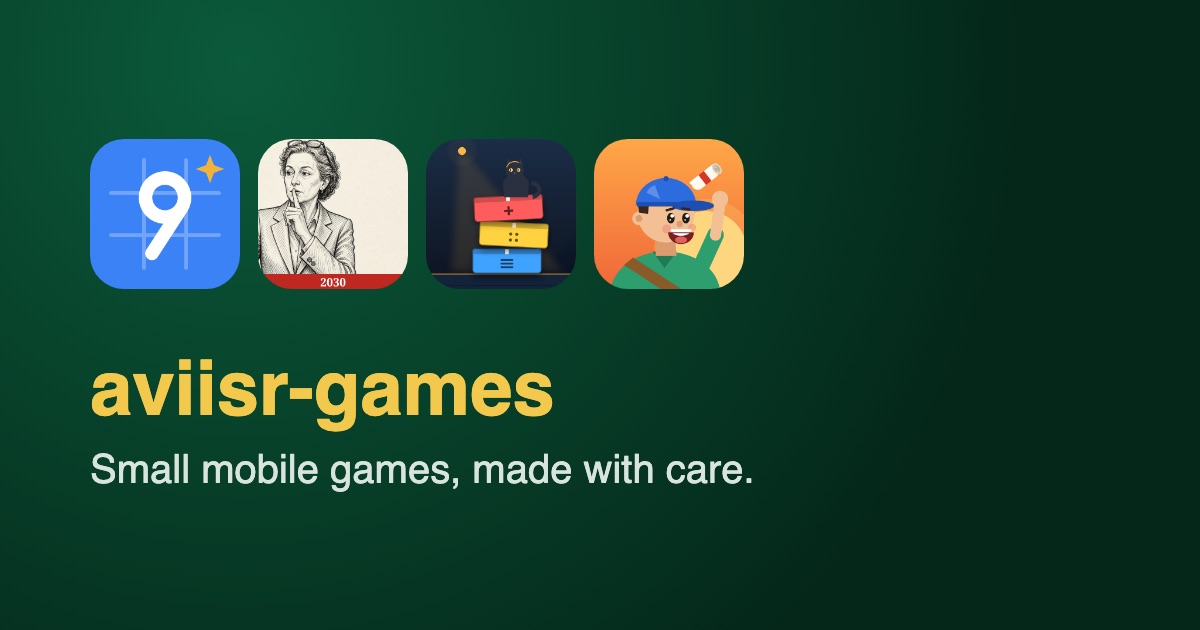
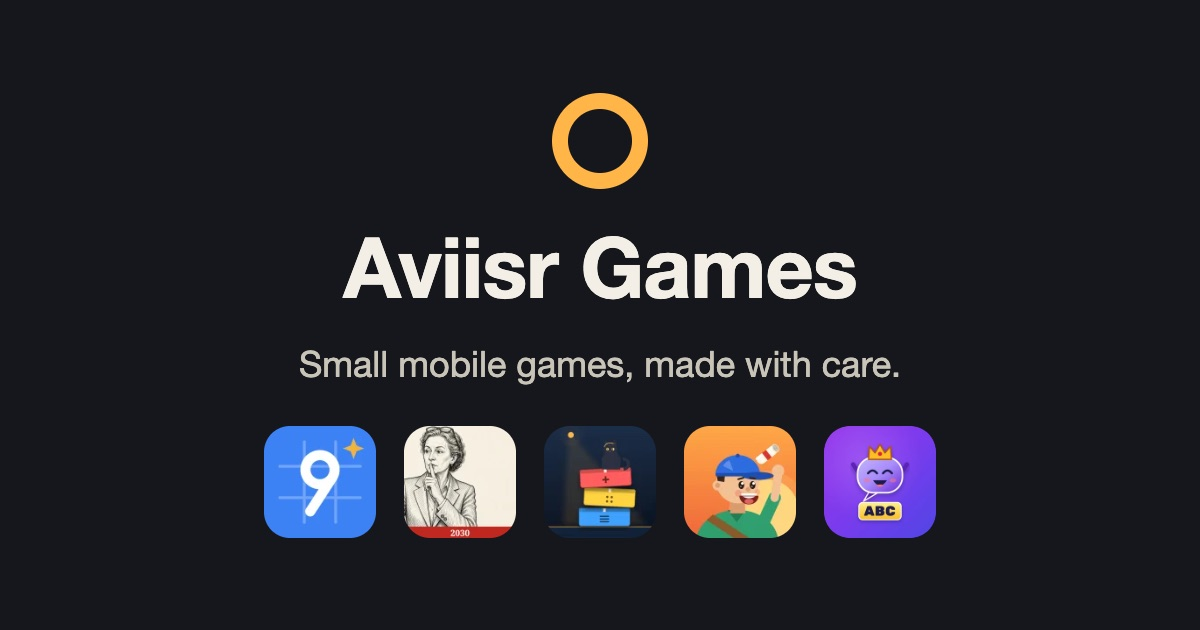
site: phase 0 fixes from the website audit
- Share image shows the studio name and all five apps
- First hub screenshot loads eagerly (it is the LCP element); test updated
- favicon.ico and apple-touch-icon.png added
- Card and footer links are at least 24px tall
- Legacy casino pages and root privacy.html/support.html set to noindex;
  dead App Store and Play links removed; new test scans every HTML file
- Titles at most 60 characters, descriptions 70 to 160, Open Graph tags
  on the briefing, guide and duel pages; fiction stated in briefing metadata
- 'Prototype' wording removed from the Baylight dock and Paper Route preview

diff --git a/paper-route/index.html b/paper-route/index.html
@@ -5,7 +5,7 @@
 <meta name="referrer" content="strict-origin-when-cross-origin">
 <meta charset="utf-8">
 <meta name="viewport" content="width=device-width, initial-scale=1">
-<title>Morning Paper Route: Bike Game · One-thumb paper delivery arcade</title>
+<title>Morning Paper Route: Bike Game · One-thumb arcade</title>
 <meta name="description" content="Ride your morning route, throw the paper and deliver before sunrise. A one-thumb bike arcade game on Google Play.">
 <link rel="canonical" href="https://aviisrgames.com/paper-route/">
 <link rel="icon" href="../favicon.svg" type="image/svg+xml">
@@ -41,7 +41,7 @@
 <h1>Morning Paper Route: Bike Game</h1>
 <p class="sub" data-i18n="mprDesc">Ride your morning route, throw the paper and deliver before sunrise. A one-thumb bike arcade game with no forced ads during rides.</p>
 <div class="store-cta"><a class="play-badge" href="https://play.google.com/store/apps/details?id=com.aviisr.paperroute&amp;utm_source=aviisrgames&amp;utm_medium=hub&amp;utm_campaign=paper-route-hub"><img data-play-badge data-app="Morning Paper Route" src="/assets/badges/google-play-en.png" alt="Get it on Google Play: Morning Paper Route" width="150" height="58"></a> <span class="store-note" data-i18n="iphoneSoon">Not on iPhone yet</span> <a href="../morning-route/preview/">Try the throw in your browser</a></div>
-<div class="screens" role="region" aria-label="Morning Paper Route screenshots" tabindex="0"><img src="/assets/screens/paper-route-1.webp" width="480" height="960" loading="lazy" decoding="async" alt="Deliver the morning paper: steer with one thumb, throw with the other"><img src="/assets/screens/paper-route-2.webp" width="480" height="960" loading="lazy" decoding="async" alt="Dodge dogs, cars and drones, with something new every day of the week"><img src="/assets/screens/paper-route-3.webp" width="480" height="960" loading="lazy" decoding="async" alt="Ride four living cities: London, Tokyo, New York and San Francisco"></div>
+<div class="screens" role="region" aria-label="Morning Paper Route screenshots" tabindex="0"><img src="/assets/screens/paper-route-1.webp" width="480" height="960" fetchpriority="high" decoding="async" alt="Deliver the morning paper: steer with one thumb, throw with the other"><img src="/assets/screens/paper-route-2.webp" width="480" height="960" loading="lazy" decoding="async" alt="Dodge dogs, cars and drones, with something new every day of the week"><img src="/assets/screens/paper-route-3.webp" width="480" height="960" loading="lazy" decoding="async" alt="Ride four living cities: London, Tokyo, New York and San Francisco"></div>
 <div class="qr-handoff"><img src="/assets/qr/paper-route.svg" alt="QR code that opens this page on your phone" width="112" height="112"><p data-i18n="qrText">On a computer? Point your phone camera at the code to open this page on your phone, then tap the Google Play button.</p></div>
 
 <div class="card">

diff --git a/ninely/strategy/naked-triples/index.html b/ninely/strategy/naked-triples/index.html
@@ -3,15 +3,15 @@
 <head>
 <meta charset="utf-8">
 <meta name="viewport" content="width=device-width, initial-scale=1">
-<title>Naked Triples in Sudoku: Three-Cell Candidate Lock Guide | Ninely</title>
-<meta name="description" content="Learn the Naked Triple Sudoku technique. See how three cells sharing three candidates lock those digits and eliminate them from the rest of the unit. Interactive diagram.">
+<title>Naked Triples in Sudoku: Three-Cell Candidate Lock | Ninely</title>
+<meta name="description" content="Learn the Naked Triple Sudoku technique: three cells sharing three candidates lock those digits and eliminate them elsewhere in the unit. Interactive diagram.">
 <link rel="canonical" href="https://aviisrgames.com/ninely/strategy/naked-triples/">
 <link rel="icon" href="../../../favicon.svg" type="image/svg+xml">
-<meta property="og:title" content="Naked Triples in Sudoku: Three-Cell Candidate Lock Guide | Ninely">
+<meta property="og:title" content="Naked Triples in Sudoku: Three-Cell Candidate Lock | Ninely">
 <meta property="og:type" content="article">
 <meta property="og:url" content="https://aviisrgames.com/ninely/strategy/naked-triples/">
 <meta property="og:image" content="https://aviisrgames.com/assets/og/ninely.jpg">
-<meta property="og:description" content="Learn the Naked Triple Sudoku technique. See how three cells sharing three candidates lock those digits and eliminate them from the rest of the unit. Interactive diagram.">
+<meta property="og:description" content="Learn the Naked Triple Sudoku technique: three cells sharing three candidates lock those digits and eliminate them elsewhere in the unit. Interactive diagram.">
 <meta name="twitter:card" content="summary_large_image">
 <meta name="referrer" content="strict-origin-when-cross-origin">
 <meta http-equiv="Content-Security-Policy" content="default-src 'self'; script-src 'self' 'unsafe-inline'; style-src 'self' 'unsafe-inline'; img-src 'self' data: https://*.goatcounter.com; object-src 'none'; base-uri 'self';">
@@ -21,7 +21,7 @@
 {
   "@context": "https://schema.org",
   "@type": "TechArticle",
-  "headline": "Naked Triples in Sudoku: Three-Cell Candidate Lock Guide",
+  "headline": "Naked Triples in Sudoku: Three-Cell Candidate Lock",
   "description": "Learn how three cells in one unit that together hold only three candidates lock those digits and remove them from every other cell in the unit.",
   "url": "https://aviisrgames.com/ninely/strategy/naked-triples/",
   "author": { "@type": "Person", "name": "Avi Israeli", "email": "aviisr@aviisrgames.com" },

diff --git a/middle-east-2030/index.html b/middle-east-2030/index.html
@@ -6,7 +6,7 @@
 <meta charset="utf-8">
 <meta name="viewport" content="width=device-width, initial-scale=1">
 <title>Middle East 2030: Politics Sim</title>
-<meta name="description" content="Middle East 2030 is a geopolitical strategy game and political simulator for Android. A work of fiction. Lead a nation, make decisions, and see tomorrow's front page.">
+<meta name="description" content="Middle East 2030 is a geopolitical strategy game and political simulator for Android. A work of fiction. Lead a nation and see tomorrow's front page.">
 <link rel="canonical" href="https://aviisrgames.com/middle-east-2030/">
 <link rel="icon" href="../favicon.svg" type="image/svg+xml">
 <meta property="og:title" content="Middle East 2030: Politics Sim">
@@ -56,7 +56,7 @@ section[lang=he] { direction: rtl; text-align: right; border-top: 1px solid #c9b
 <a href="guide/">Coalition Strategy &amp; Chair Guide</a>
 <span class="store-note">Not on iPhone yet</span>
 </p>
-<div class="screens" role="region" aria-label="Middle East 2030 screenshots" tabindex="0"><img src="/assets/screens/middle-east-2030-1.webp" width="480" height="960" loading="lazy" decoding="async" alt="2030. Can you hold the region for one term?"><img src="/assets/screens/middle-east-2030-2.webp" width="480" height="960" loading="lazy" decoding="async" alt="Every month opens with its biggest problem"><img src="/assets/screens/middle-east-2030-3.webp" width="480" height="960" loading="lazy" decoding="async" alt="Two decisions a month. See what each one moves."></div>
+<div class="screens" role="region" aria-label="Middle East 2030 screenshots" tabindex="0"><img src="/assets/screens/middle-east-2030-1.webp" width="480" height="960" fetchpriority="high" decoding="async" alt="2030. Can you hold the region for one term?"><img src="/assets/screens/middle-east-2030-2.webp" width="480" height="960" loading="lazy" decoding="async" alt="Every month opens with its biggest problem"><img src="/assets/screens/middle-east-2030-3.webp" width="480" height="960" loading="lazy" decoding="async" alt="Two decisions a month. See what each one moves."></div>
 <div class="qr-handoff"><img src="/assets/qr/middle-east-2030.svg" alt="QR code that opens this page on your phone" width="112" height="112"><p data-i18n="qrText">On a computer? Point your phone camera at the code to open this page on your phone, then tap the Google Play button.</p></div>
 
 <p><a href="guide/">Scenario Timeline &amp; Chair Guide</a> · <a href="support/">Support &amp; Help</a> · <a href="privacy/">Privacy Policy</a></p>

diff --git a/baylight/dock/index.html b/baylight/dock/index.html
@@ -20,8 +20,8 @@
 {
   "@context": "https://schema.org",
   "@type": "WebApplication",
-  "name": "Baylight: Interactive Dock Sorting Prototype",
-  "description": "Browser playable depot sorting puzzle prototype from Baylight: Truck Sort Puzzle. Solver-verified levels with blocked lanes and pallet parking.",
+  "name": "Baylight: Load a dock in your browser",
+  "description": "A short browser version of the depot sorting puzzle from Baylight: Truck Sort Puzzle. Solver-verified levels with blocked lanes and pallet parking.",
   "url": "https://aviisrgames.com/baylight/dock/",
   "applicationCategory": "GameApplication",
   "operatingSystem": "Any",
@@ -318,11 +318,11 @@
 
 <header>
   <h1>Baylight: Truck Sort Puzzle</h1>
-  <p class="sub">Depot Sorting Puzzle — Interactive Web Prototype</p>
+  <p class="sub">Depot sorting puzzle - load a dock in your browser</p>
 </header>
 
 <div class="notice-box">
-  ℹ <strong>Development Notice:</strong> <em>Baylight</em> is on Google Play for Android; it is not on iPhone yet. This lightweight interactive prototype runs the pure C# depot rules directly in your browser. All puzzle levels and move sequences are solver-verified.
+  ℹ <strong>Good to know:</strong> <em>Baylight</em> is on Google Play for Android; it is not on iPhone yet. This is a short browser version that runs the same depot rules right here in your browser. All puzzle levels and move sequences are solver-verified.
 </div>
 
 <article class="dock-card">
@@ -383,7 +383,7 @@
 
   <noscript>
     <div style="background: #334155; padding: 12px; border-radius: 6px; margin-top: 14px;">
-      <strong>Static View:</strong> JavaScript is required for the interactive prototype. Below is the solver-verified winning move sequence:
+      <strong>Static View:</strong> JavaScript is required to play in your browser. Below is the solver-verified winning move sequence:
       <ul>
         <li><strong>Dock 5 (12 moves):</strong> Bay 1 (B), Bay 2 (Y), Bay 1 (B), Bay 1 (B - Ships &amp; Unlocks Bay 3!), Bay 1 (R), Bay 2 (Y), Bay 3 (G), Bay 1 (R), Bay 3 (G), Bay 2 (Y - Ships!), Bay 1 (R - Ships!), Bay 3 (G - Ships!).</li>
         <li><strong>Dock 6 (15 moves):</strong> Bay 1 (Y), Bay 1 (Y), Bay 2 (R), Bay 2 (R), Pallet (G), Bay 3 (B), Bay 3 (B), Bay 4 (P), Bay 4 (P), Bay 3 (B - Ships!), Bay 1 (Y - Ships!), Bay 1 (G - Pulls Pallet G!), Bay 4 (P - Ships!), Bay 2 (R - Ships!), Bay 1 (G - Ships!).</li>

diff --git a/middle-east-2030/guide/index.html b/middle-east-2030/guide/index.html
@@ -3,9 +3,15 @@
 <head>
 <meta charset="utf-8">
 <meta name="viewport" content="width=device-width, initial-scale=1">
-<title>Middle East 2030 Coalition Strategy, Scenario Timeline &amp; Chair Guide | AVIISR Games</title>
-<meta name="description" content="Complete strategy companion for Middle East 2030: Politics Sim. Explore the 2030 fictional scenario timeline, the 8 playable capitals, the Energy Accord decision fork, and all 8 briefing outcomes.">
+<title>Middle East 2030 Strategy Guide, Timeline and Chair Guide</title>
+<meta name="description" content="Strategy companion for Middle East 2030: Politics Sim. Covers the fictional 2030 timeline, 8 playable capitals, the Energy Accord fork and 8 briefing outcomes.">
 <link rel="canonical" href="https://aviisrgames.com/middle-east-2030/guide/">
+<meta property="og:title" content="Middle East 2030 Strategy Guide, Timeline and Chair Guide">
+<meta property="og:type" content="website">
+<meta property="og:url" content="https://aviisrgames.com/middle-east-2030/guide/">
+<meta property="og:image" content="https://aviisrgames.com/assets/og/middle-east-2030.jpg">
+<meta property="og:description" content="Strategy companion for Middle East 2030: Politics Sim. Covers the fictional 2030 timeline, 8 playable capitals, the Energy Accord fork and 8 briefing outcomes.">
+<meta name="twitter:card" content="summary_large_image">
 <meta name="referrer" content="strict-origin-when-cross-origin">
 <meta http-equiv="Content-Security-Policy" content="default-src 'self'; script-src 'self' 'unsafe-inline'; style-src 'self' 'unsafe-inline'; img-src 'self' data: https://*.goatcounter.com; object-src 'none'; base-uri 'self';">
 <link rel="icon" href="../../favicon.svg" type="image/svg+xml">
@@ -14,7 +20,7 @@
 {
   "@context": "https://schema.org",
   "@type": "TechArticle",
-  "headline": "Middle East 2030 Coalition Strategy, Scenario Timeline & Chair Guide",
+  "headline": "Middle East 2030 Strategy Guide, Timeline and Chair Guide",
   "description": "Strategic guide to coalition survival, the Energy Pipeline Accord fork, all eight 3-month briefing outcomes, and the eight playable capitals in Middle East 2030.",
   "url": "https://aviisrgames.com/middle-east-2030/guide/",
   "author": { "@type": "Person", "name": "Avi Israeli", "email": "aviisr@aviisrgames.com" },

diff --git a/ninely/index.html b/ninely/index.html
@@ -43,7 +43,7 @@
 <h1>Ninely: Sudoku &amp; Logic Puzzle</h1>
 <p class="sub" data-i18n="ninelyDesc">Number puzzles with Smart Hints that explain every step.</p>
 <div class="store-cta"><a class="play-badge" href="https://play.google.com/store/apps/details?id=com.aviisrgames.ninely&amp;utm_source=aviisrgames&amp;utm_medium=hub&amp;utm_campaign=ninely-hub"><img data-play-badge data-app="Ninely" src="/assets/badges/google-play-en.png" alt="Get it on Google Play: Ninely" width="150" height="58"></a> <span class="store-note" data-i18n="iphoneSoon">Not on iPhone yet</span> <a href="play/" data-i18n="tryInBrowser">Play in your browser</a></div>
-<div class="screens" role="region" aria-label="Ninely screenshots" tabindex="0"><img src="/assets/screens/ninely-1.webp" width="480" height="853" loading="lazy" decoding="async" alt="Hint: Smart Hints explain each move"><img src="/assets/screens/ninely-2.webp" width="480" height="853" loading="lazy" decoding="async" alt="Practice each technique in short drills"><img src="/assets/screens/ninely-3.webp" width="480" height="853" loading="lazy" decoding="async" alt="Track your mastery as you climb"></div>
+<div class="screens" role="region" aria-label="Ninely screenshots" tabindex="0"><img src="/assets/screens/ninely-1.webp" width="480" height="853" fetchpriority="high" decoding="async" alt="Hint: Smart Hints explain each move"><img src="/assets/screens/ninely-2.webp" width="480" height="853" loading="lazy" decoding="async" alt="Practice each technique in short drills"><img src="/assets/screens/ninely-3.webp" width="480" height="853" loading="lazy" decoding="async" alt="Track your mastery as you climb"></div>
 <ul class="benefits"><li>Smart Hints explain the logic behind every move, so you learn instead of guessing.</li><li>Practice each technique in short drills and track your mastery.</li><li>A fresh daily challenge and five levels, from Easy to Master.</li></ul>
 <div class="qr-handoff"><img src="/assets/qr/ninely.svg" alt="QR code that opens this page on your phone" width="112" height="112"><p data-i18n="qrText">On a computer? Point your phone camera at the code to open this page on your phone, then tap the Google Play button.</p></div>
 <p>Questions, problems or ideas? Write to us:</p>

diff --git a/morning-route/preview/index.html b/morning-route/preview/index.html
@@ -3,8 +3,8 @@
 <head>
 <meta charset="utf-8">
 <meta name="viewport" content="width=device-width, initial-scale=1">
-<title>Morning Paper Route — Neighborhood Map &amp; Throw Timing Preview</title>
-<meta name="description" content="Explore the 7-day shift route map, 6 neighborhood hazards, and interactive newspaper delivery timing prototype for Morning Paper Route.">
+<title>Morning Paper Route: Neighborhood Map &amp; Throw Preview</title>
+<meta name="description" content="Explore the 7-day shift route map, 6 neighborhood hazards, and a newspaper throw you can try in your browser, for Morning Paper Route.">
 <link rel="canonical" href="https://aviisrgames.com/morning-route/preview/">
 <meta name="referrer" content="strict-origin-when-cross-origin">
 <meta http-equiv="Content-Security-Policy" content="default-src 'self'; script-src 'self' 'unsafe-inline'; style-src 'self' 'unsafe-inline'; img-src 'self' data: https://*.goatcounter.com; object-src 'none'; base-uri 'self';">
@@ -15,7 +15,7 @@
   "@context": "https://schema.org",
   "@type": "WebApplication",
   "name": "Morning Paper Route Preview",
-  "description": "Interactive route map and throw timing prototype for Morning Paper Route. Steer with courier Sam, dodge 6 hazards, and time mailbox deliveries.",
+  "description": "Route map and a throw you can try in your browser, for Morning Paper Route. Steer with courier Sam, dodge 6 hazards, and time mailbox deliveries.",
   "url": "https://aviisrgames.com/morning-route/preview/",
   "applicationCategory": "GameApplication",
   "operatingSystem": "Any",
@@ -269,7 +269,7 @@
 </header>
 
 <div class="card-box" id="throw-preview">
-  <h2>Interactive Throw Timing Prototype (Courier Sam)</h2>
+  <h2>Try the throw in your browser (Courier Sam)</h2>
   <p style="font-size: 0.95rem; color: #475569;">
     Time your throw as Sam pedals past the subscriber's house! Land in the green sweet-spot for a <strong>Mailbox Perfect (+100 pts)</strong>, hit the amber porch for a <strong>Good Delivery (+50 pts)</strong>, or throw late and risk a <strong>Broken Window (-50 pts)</strong>.
   </p>

diff --git a/baylight/index.html b/baylight/index.html
@@ -43,7 +43,7 @@
 <h1>Baylight: Truck Sort Puzzle</h1>
 <p class="sub" data-i18n="baylightDesc">Tap a bay, stack three of a kind, ship the truck. A one-thumb sorting puzzle in short rounds.</p>
 <div class="store-cta"><a class="play-badge" href="https://play.google.com/store/apps/details?id=com.aviisrgames.baylight&amp;utm_source=aviisrgames&amp;utm_medium=hub&amp;utm_campaign=baylight-hub"><img data-play-badge data-app="Baylight" src="/assets/badges/google-play-en.png" alt="Get it on Google Play: Baylight" width="150" height="58"></a> <span class="store-note" data-i18n="iphoneSoon">Not on iPhone yet</span> <a href="dock/" data-i18n="tryInBrowser">Play in your browser</a></div>
-<div class="screens" role="region" aria-label="Baylight screenshots" tabindex="0"><img src="/assets/screens/baylight-1.webp" width="480" height="960" loading="lazy" decoding="async" alt="Bay 4: stack three matching parcels to fill a truck"><img src="/assets/screens/baylight-2.webp" width="480" height="960" loading="lazy" decoding="async" alt="Watch the next parcels and plan where each one goes"><img src="/assets/screens/baylight-3.webp" width="480" height="960" loading="lazy" decoding="async" alt="Tap the pallet to park a parcel until a bay frees up"></div>
+<div class="screens" role="region" aria-label="Baylight screenshots" tabindex="0"><img src="/assets/screens/baylight-1.webp" width="480" height="960" fetchpriority="high" decoding="async" alt="Bay 4: stack three matching parcels to fill a truck"><img src="/assets/screens/baylight-2.webp" width="480" height="960" loading="lazy" decoding="async" alt="Watch the next parcels and plan where each one goes"><img src="/assets/screens/baylight-3.webp" width="480" height="960" loading="lazy" decoding="async" alt="Tap the pallet to park a parcel until a bay frees up"></div>
 <div class="qr-handoff"><img src="/assets/qr/baylight.svg" alt="QR code that opens this page on your phone" width="112" height="112"><p data-i18n="qrText">On a computer? Point your phone camera at the code to open this page on your phone, then tap the Google Play button.</p></div>
 
 

diff --git a/ninely/strategy/naked-pairs/index.html b/ninely/strategy/naked-pairs/index.html
@@ -3,11 +3,11 @@
 <head>
 <meta charset="utf-8">
 <meta name="viewport" content="width=device-width, initial-scale=1">
-<title>Naked Pairs in Sudoku: How to Spot and Eliminate Pair Candidates | Ninely</title>
+<title>Naked Pairs in Sudoku: How to Spot and Use Them | Ninely</title>
 <meta name="description" content="Master Naked Pairs in Sudoku. Learn how two identical candidate pairs in a unit eliminate candidates across rows, columns, and boxes. Interactive diagram.">
 <link rel="canonical" href="https://aviisrgames.com/ninely/strategy/naked-pairs/">
 <link rel="icon" href="../../../favicon.svg" type="image/svg+xml">
-<meta property="og:title" content="Naked Pairs in Sudoku: How to Spot and Eliminate Pair Candidates | Ninely">
+<meta property="og:title" content="Naked Pairs in Sudoku: How to Spot and Use Them | Ninely">
 <meta property="og:type" content="article">
 <meta property="og:url" content="https://aviisrgames.com/ninely/strategy/naked-pairs/">
 <meta property="og:image" content="https://aviisrgames.com/assets/og/ninely.jpg">
@@ -21,7 +21,7 @@
 {
   "@context": "https://schema.org",
   "@type": "TechArticle",
-  "headline": "Naked Pairs in Sudoku: How to Spot and Eliminate Pair Candidates",
+  "headline": "Naked Pairs in Sudoku: How to Spot and Use Them",
   "description": "Learn how two cells sharing the same two candidates lock those digits and unlock single candidate solutions.",
   "url": "https://aviisrgames.com/ninely/strategy/naked-pairs/",
   "author": { "@type": "Person", "name": "Avi Israeli", "email": "aviisr@aviisrgames.com" },

diff --git a/ninely/strategy/hidden-pairs/index.html b/ninely/strategy/hidden-pairs/index.html
@@ -3,11 +3,11 @@
 <head>
 <meta charset="utf-8">
 <meta name="viewport" content="width=device-width, initial-scale=1">
-<title>Hidden Pairs in Sudoku: Finding Locked Twins in Crowded Units | Ninely</title>
+<title>Hidden Pairs in Sudoku: Locked Twins Explained | Ninely</title>
 <meta name="description" content="Master Hidden Pairs in Sudoku. Learn how to identify two digits restricted to two cells among extra candidates and strip them clean. Interactive diagram.">
 <link rel="canonical" href="https://aviisrgames.com/ninely/strategy/hidden-pairs/">
 <link rel="icon" href="../../../favicon.svg" type="image/svg+xml">
-<meta property="og:title" content="Hidden Pairs in Sudoku: Finding Locked Twins in Crowded Units | Ninely">
+<meta property="og:title" content="Hidden Pairs in Sudoku: Locked Twins Explained | Ninely">
 <meta property="og:type" content="article">
 <meta property="og:url" content="https://aviisrgames.com/ninely/strategy/hidden-pairs/">
 <meta property="og:image" content="https://aviisrgames.com/assets/og/ninely.jpg">
@@ -21,7 +21,7 @@
 {
   "@context": "https://schema.org",
   "@type": "TechArticle",
-  "headline": "Hidden Pairs in Sudoku: Finding Locked Twins in Crowded Units",
+  "headline": "Hidden Pairs in Sudoku: Locked Twins Explained",
   "description": "Learn how two digits that appear in only two cells of a unit lock those spots and eliminate extraneous candidates.",
   "url": "https://aviisrgames.com/ninely/strategy/hidden-pairs/",
   "author": { "@type": "Person", "name": "Avi Israeli", "email": "aviisr@aviisrgames.com" },

diff --git a/ninely/strategy/swordfish/index.html b/ninely/strategy/swordfish/index.html
@@ -3,11 +3,11 @@
 <head>
 <meta charset="utf-8">
 <meta name="viewport" content="width=device-width, initial-scale=1">
-<title>Swordfish Technique in Sudoku: Three-Line Fish Guide | Ninely</title>
+<title>Swordfish Technique in Sudoku: Three-Line Fish | Ninely</title>
 <meta name="description" content="Master the Swordfish Sudoku strategy. Learn how a candidate locked into three columns and three rows eliminates it across those rows. Interactive diagram.">
 <link rel="canonical" href="https://aviisrgames.com/ninely/strategy/swordfish/">
 <link rel="icon" href="../../../favicon.svg" type="image/svg+xml">
-<meta property="og:title" content="Swordfish Technique in Sudoku: Three-Line Fish Guide | Ninely">
+<meta property="og:title" content="Swordfish Technique in Sudoku: Three-Line Fish | Ninely">
 <meta property="og:type" content="article">
 <meta property="og:url" content="https://aviisrgames.com/ninely/strategy/swordfish/">
 <meta property="og:image" content="https://aviisrgames.com/assets/og/ninely.jpg">
@@ -21,7 +21,7 @@
 {
   "@context": "https://schema.org",
   "@type": "TechArticle",
-  "headline": "Swordfish Technique in Sudoku: Three-Line Fish Guide",
+  "headline": "Swordfish Technique in Sudoku: Three-Line Fish",
   "description": "Learn how the Swordfish pattern, an X-Wing stretched across three columns and three rows, eliminates a candidate from the rest of the cover rows.",
   "url": "https://aviisrgames.com/ninely/strategy/swordfish/",
   "author": { "@type": "Person", "name": "Avi Israeli", "email": "aviisr@aviisrgames.com" },

diff --git a/ninely/strategy/x-wing/index.html b/ninely/strategy/x-wing/index.html
@@ -3,11 +3,11 @@
 <head>
 <meta charset="utf-8">
 <meta name="viewport" content="width=device-width, initial-scale=1">
-<title>X-Wing Technique in Sudoku: Multi-Line Elimination Guide | Ninely</title>
+<title>X-Wing Technique in Sudoku: Multi-Line Elimination | Ninely</title>
 <meta name="description" content="Master the X-Wing strategy in Sudoku. Learn how rectangular fish patterns across rows and columns eliminate candidates and unlock singles. Interactive diagram.">
 <link rel="canonical" href="https://aviisrgames.com/ninely/strategy/x-wing/">
 <link rel="icon" href="../../../favicon.svg" type="image/svg+xml">
-<meta property="og:title" content="X-Wing Technique in Sudoku: Multi-Line Elimination Guide | Ninely">
+<meta property="og:title" content="X-Wing Technique in Sudoku: Multi-Line Elimination | Ninely">
 <meta property="og:type" content="article">
 <meta property="og:url" content="https://aviisrgames.com/ninely/strategy/x-wing/">
 <meta property="og:image" content="https://aviisrgames.com/assets/og/ninely.jpg">
@@ -21,7 +21,7 @@
 {
   "@context": "https://schema.org",
   "@type": "TechArticle",
-  "headline": "X-Wing Technique in Sudoku: Multi-Line Elimination Guide",
+  "headline": "X-Wing Technique in Sudoku: Multi-Line Elimination",
   "description": "Learn how the rectangular X-Wing pattern across two rows or columns eliminates candidates across intersecting units.",
   "url": "https://aviisrgames.com/ninely/strategy/x-wing/",
   "author": { "@type": "Person", "name": "Avi Israeli", "email": "aviisr@aviisrgames.com" },
